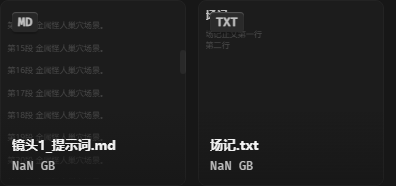
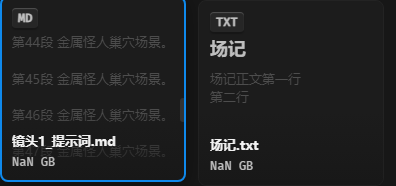
fix(卡片): 文本卡走查四修——角标让位 / 胶囊可拖 / 滚轮交还网格 / 字号固定
- 文本区让位角标（top = 角标下缘+4，无角标回 12）；胶囊补拖动（pointerdown 自停冒泡防起卡片拖拽）
- 滚轮不介入卡内（overflow hidden，恒滚网格；成因 = 网格自定义 transform 滚动 preventDefault）
- 字号固定稿值 18/13，推翻 cqw 等比缩放（fc-root container-type 同撤）；§16 口径已修订
- 探针扩断言全 PASS（含 CDP 真实鼠标拖胶囊、滚轮交还网格）

diff --git a/src/components/cards/FileCard.vue b/src/components/cards/FileCard.vue
@@ -11,9 +11,12 @@
 //        audio  = 波形（竖线 4px 圆头 gap 4 通用/五级，根数恒定由业务保证、美观优先）+ 悬停胶囊
 //        （时长 + 播放/暂停）；进度 = 品牌色波形层 clip-path 丝滑扫过（与根数解耦，稿 prose + 2026-08-29 用户定色）；
 //        font   = 示例字块居中（标题档 亮色/四级，日/韩环境示例字业务侧替换）+ 右上 FontInstallButton；
-//        text   = 标题（标题档 二级）+ 正文（正文档 四级）滚动预览，**内容随卡宽 cqw 等比缩放**
-//        （2026-09-13 实机走查：文档卡片跟随尺寸缩放，稿基准 300 宽比例换算），内容溢出出 6px
-//        滚动胶囊（通用/四级，胶囊自身 hover 升六级——2026-09-13 全局滚动条色档定案）；
+//        text   = 标题（标题档 二级）+ 正文（正文档 四级）滚动预览，**字号固定稿值不随卡宽缩放**
+//        （2026-09-22 用户实机定：卡片缩放只影响显示行数；推翻 2026-09-13 cqw 等比缩放——
+//        cqw 唯一消费者已拆，fc-root container-type 同撤），滚轮不介入卡内（卡内 overflow hidden，
+//        滚轮恒滚页面），内容溢出出 6px 滚动胶囊（通用/四级，胶囊自身 hover 升六级——2026-09-13
+//        全局滚动条色档定案）**可拖**（pointerdown 自停冒泡防起卡片拖拽，2026-09-22 用户实机报
+//        「滚动条 100% 被拖拽排序覆盖」修复）；
 // 悬停控件（胶囊 / 播放条 / 波形扫过）一律 hover 才出现（2026-08-29 用户定），过渡 150ms；
 // 壳 / hover 位移 -4 + 小阴影 / 选中 2px 品牌描边 见 cards.css（kc-media / kc-sel）。
 // 业务态（7.1 内容容器轮接线，模式同 cards/FolderCard）：naming = 行内重命名（名称位换输入框；
@@ -76,7 +79,9 @@ const spec = computed(() => cardContentSpecFor(props.kind) ?? generalContentSpec
 // 滚动胶囊（scrollThumb 形态 = text 卡）：内容溢出才显，轨道 = 内容区（卡 padding 12 内），跟随滚动；
 // 拇指在根层渲染（kc-clip 外——picked 压暗不波及）；滚动容器 = 内容件根元素（spec 契约：单根、
 // 根即滚动容器），经组件 ref.$el 接线（scroll 监听 + ResizeObserver）；
-// 卡片尺寸变化（尺寸滑块）同步重算（2026-09-13 实机走查：文档卡内容随卡宽等比缩放，滚动量随动）
+// 卡片尺寸变化（尺寸滑块）同步重算（字号固定后 = 可见行数变化滚动量随动，2026-09-22 修订）；
+// 拇指可拖（2026-09-22 用户实机报「滚动条 100% 被拖拽排序覆盖」）：pointerdown 自停冒泡
+//（不到网格根不起卡片拖拽 / 框选），位移按可滚比例映射 scrollTop（useSideThumb 同款换算）
 const contentRef = ref<ComponentPublicInstance>();
 const thumb = reactive({ show: false, top: 12, height: 0 });
 function contentScrollEl(): HTMLElement | undefined {
@@ -96,6 +101,25 @@ function updateThumb(): void {
   thumb.height = h;
   thumb.top = 12 + (scrollTop / (scrollHeight - clientHeight)) * (clientHeight - h);
   thumb.show = true;
+}
+/** 拇指拖拽滚动：位移 ×（可滚高 / 拇指行程）映射 scrollTop */
+function onThumbDown(e: PointerEvent): void {
+  const el = contentScrollEl();
+  if (!el) return;
+  e.stopPropagation(); // 防冒泡到网格根（起卡片拖拽 / 框选）
+  e.preventDefault();
+  const startY = e.clientY;
+  const startScroll = el.scrollTop;
+  const ratio = (el.scrollHeight - el.clientHeight) / Math.max(1, el.clientHeight - thumb.height);
+  const onMove = (ev: PointerEvent): void => {
+    el.scrollTop = startScroll + (ev.clientY - startY) * ratio;
+  };
+  const onUp = (): void => {
+    window.removeEventListener("pointermove", onMove);
+    window.removeEventListener("pointerup", onUp);
+  };
+  window.addEventListener("pointermove", onMove);
+  window.addEventListener("pointerup", onUp);
 }
 let textRo: ResizeObserver | undefined;
 onMounted(() => {
@@ -163,12 +187,14 @@ watch(
       v-bind="ov.props(props)"
     />
 
-    <!-- 滚动胶囊（scrollThumb 形态 = text 卡：贴右缘，hover 升五级） -->
+    <!-- 滚动胶囊（scrollThumb 形态 = text 卡：贴右缘，hover 升六级；可拖——pointerdown
+         自停冒泡防起卡片拖拽，2026-09-22 用户实机修复） -->
     <span
       v-if="spec.scrollThumb"
       v-show="thumb.show"
       class="fc-text-thumb"
       :style="{ top: `${thumb.top}px`, height: `${thumb.height}px` }"
+      @pointerdown="onThumbDown"
     />
 
     <!-- 原始文件-徽章（右下 12/12，品牌色原值） -->
@@ -180,7 +206,7 @@ watch(
 .fc-root {
   width: 100%;
   height: 100%;
-  container-type: inline-size; /* text 卡内容按卡宽 cqw 等比缩放（2026-09-13 实机走查） */
+  /* container-type 已撤（2026-09-22）：唯一消费者 = text 卡 cqw 等比缩放，字号改固定稿值后无用途 */
 }
 /* square 变体：shell 缩略图 / 自动导入未导入 = 正方形比例（稿注） */
 .fc-root.square {

diff --git a/src/components/cards/contents/TextContent.vue b/src/components/cards/contents/TextContent.vue
@@ -1,17 +1,23 @@
 <script setup lang="ts">
 // 内容件 · 文本滚动预览（text）——R5 扩展点注册表化（2026-09-21）自 FileCard 抽出，
-// 注册见 src/lib/cardSpecs/text.ts（scrollThumb: true）；样式块原样随迁、值未动。
+// 注册见 src/lib/cardSpecs/text.ts（scrollThumb: true）；2026-09-22 生产接线（txt/md/docx）。
 // 滚动胶囊本体在宿主 FileCard 根层（picked 压暗不波及，kc-clip 外），本件根元素即滚动容器——
 // 宿主经组件 ref.$el 挂 scroll 监听 / ResizeObserver（spec scrollThumb 契约：单根元素、根即滚动容器）。
+// 2026-09-22 用户实机走查三条修订：
+// ① 字号固定稿值不随卡宽缩放（废 2026-09-13 cqw 等比缩放——卡片缩放只影响显示行数）；
+// ② 滚轮不介入卡内（overflow hidden——卡不再是滚轮目标，滚轮恒滚页面；卡内滚动走右缘胶囊拖动，
+//    hidden 元素 scrollTop 仍可程序写）；
+// ③ 卡内文本让位格式角标（topInset：有角标时起始 = 角标下缘 + 4，spec 映射传入）。
 defineOptions({ inheritAttrs: false });
-withDefaults(defineProps<{ textTitle?: string; textBody?: string }>(), {
+withDefaults(defineProps<{ textTitle?: string; textBody?: string; topInset?: number }>(), {
   textTitle: "",
   textBody: "",
+  topInset: 12,
 });
 </script>
 
 <template>
-  <div class="fc-text">
+  <div class="fc-text" :style="{ top: `${topInset}px` }">
     <div v-if="textTitle" class="fc-text-title">{{ textTitle }}</div>
     <div class="fc-text-body">{{ textBody }}</div>
   </div>
@@ -19,30 +25,27 @@ withDefaults(defineProps<{ textTitle?: string; textBody?: string }>(), {
 
 <style scoped>
 /* 文本预览：卡 padding 12 内滚动（滚动内容可入渐变罩下），标题 二级 / 正文 四级 gap 8；
-   内容随卡宽等比缩放（2026-09-13 实机走查：文档卡片需要跟随尺寸缩放）——cqw 容器查询单位，
-   稿基准 300 宽：标题 18px=6cqw / 正文 13px≈4.34cqw / 内边距 12px=4cqw / gap 8px≈2.67cqw
-   （cqw 对宿主 .fc-root container-type: inline-size 生效，与组件边界无关） */
+   字号固定稿基准值（18/26、13/18）——卡片尺寸缩放只改变可见行数，文字大小不变 */
 .fc-text {
   position: absolute;
-  inset: 4cqw;
-  overflow-y: auto;
+  left: 12px;
+  right: 12px;
+  bottom: 12px;
+  /* top 由 style 绑定（topInset：格式角标让位，无角标 = 12） */
+  overflow-y: hidden; /* 滚轮目标让位页面；卡内滚动由宿主胶囊拖动驱动 scrollTop */
   display: flex;
   flex-direction: column;
-  gap: 2.67cqw;
-  scrollbar-width: none;
-}
-.fc-text::-webkit-scrollbar {
-  display: none;
+  gap: 8px;
 }
 .fc-text-title {
   flex: none;
-  font-size: 6cqw;
+  font-size: 18px;
   line-height: 1.45; /* 26/18 */
   font-weight: var(--n-fw-bold);
   color: var(--n-l2);
 }
 .fc-text-body {
-  font-size: 4.34cqw;
+  font-size: 13px;
   line-height: 1.39; /* 18/13 */
   color: var(--n-l4);
   white-space: pre-wrap;

diff --git a/src/lib/cardSpecs/text.ts b/src/lib/cardSpecs/text.ts
@@ -1,10 +1,11 @@
-// 文本卡 spec（稿 = 文件卡片-txt-md）：内容 = 标题 + 正文滚动预览（随卡宽 cqw 等比缩放）；
-// scrollThumb = 内容溢出滚动胶囊（拇指宿主渲染，接线 TextContent 根滚动容器）。
+// 文本卡 spec（稿 = 文件卡片-txt-md）：内容 = 标题 + 正文滚动预览（字号固定稿值，
+// 2026-09-22 用户定不随卡缩放）；scrollThumb = 内容溢出滚动胶囊（拇指宿主渲染可拖，
+// 接线 TextContent 根滚动容器）；topInset = 格式角标让位（角标下缘 + 4：12 + 20 + 4 = 36）。
 import TextContent from "../../components/cards/contents/TextContent.vue";
 import type { CardContentSpec } from "./types";
 
 export const textContentSpec: CardContentSpec = {
   content: TextContent,
-  contentProps: (p) => ({ textTitle: p.textTitle, textBody: p.textBody }),
+  contentProps: (p) => ({ textTitle: p.textTitle, textBody: p.textBody, topInset: p.badge ? 36 : 12 }),
   scrollThumb: true,
 };

diff --git a/tools/cdp-text-card-probe.py b/tools/cdp-text-card-probe.py
@@ -41,6 +41,11 @@ window.__TAURI_INTERNALS__ = {
         thumbPath: "E:/T/thumb.webp", thumbKind: "asset", origin: true,
         frameCount: null, animated: false, duration: null, bpm: null, importedFrom: null,
         noteCount: null, thumbFrame: null, fps: null },
+      // 凑行数让网格视口可滚（滚轮交还页面断言用）
+      ...Array.from({ length: 8 }, (_, i) => ({ assetId: `PX${i}`, folderId: "root", name: `垫图${i}.png`, w: 100, h: 80, ext: "png",
+        thumbPath: "E:/T/thumb.webp", thumbKind: "asset", origin: true,
+        frameCount: null, animated: false, duration: null, bpm: null, importedFrom: null,
+        noteCount: null, thumbFrame: null, fps: null })),
     ];
     const R = {
       get_current_library: LIB,
@@ -98,7 +103,7 @@ async def main():
     profile = tempfile.mkdtemp(prefix="cdp-text-card-")
     proc = subprocess.Popen(
         [EDGE, f"--remote-debugging-port={PORT}", f"--user-data-dir={profile}",
-         "--headless=new", "--disable-gpu", "--window-size=1400,900", "about:blank"],
+         "--headless=new", "--disable-gpu", "--window-size=1400,640", "about:blank"],
         stdout=subprocess.DEVNULL, stderr=subprocess.DEVNULL,
     )
     try:
@@ -159,6 +164,9 @@ async def main():
                   title: c.querySelector('.fc-text-title')?.textContent ?? null,
                   bodyHead: (c.querySelector('.fc-text-body')?.textContent ?? '').slice(0, 20),
                   overflowY: t ? getComputedStyle(t).overflowY : null,
+                  bodySize: t ? getComputedStyle(t.querySelector('.fc-text-body')).fontSize : null,
+                  topInset: t ? t.style.top : null,
+                  badgeText: c.querySelector('.fc-badge')?.textContent ?? null,
                 };
               });
               return {
@@ -182,8 +190,14 @@ async def main():
                     fails.append(f"[{label}] 词干标题缺失")
                 if not row["bodyHead"]:
                     fails.append(f"[{label}] 正文为空")
-                if row["overflowY"] != "auto":
-                    fails.append(f"[{label}] 滚动容器 overflowY={row['overflowY']}（期望 auto）")
+                if row["overflowY"] != "hidden":
+                    fails.append(f"[{label}] 滚动容器 overflowY={row['overflowY']}（期望 hidden——滚轮交还页面）")
+                if row["bodySize"] != "13px":
+                    fails.append(f"[{label}] 正文字号 {row['bodySize']}（期望 13px 固定稿值）")
+                # 角标让位：角标在 = 36px（角标下缘 + 4）；桩环境角标缺失时降级 12px 并诊断输出
+                expect_top = "36px" if row["badgeText"] else "12px"
+                if row["topInset"] != expect_top:
+                    fails.append(f"[{label}] 角标让位 top={row['topInset']}（期望 {expect_top}，badge={row['badgeText']}）")
             if md and "第59段" not in (md.get("bodyHead") or "") and not (await ev("([...document.querySelectorAll('.fc-text-body')].find((b) => b.textContent.includes('第59段'))?.textContent.length) ?? 0")):
                 fails.append("[md] 长文未到达（截断或懒加载失败）")
             if docx and docx["bodyHead"] != "分镜脚本\n主角入场。":
@@ -195,17 +209,93 @@ async def main():
             if (a["docxReads"] if a else []) != ["D1"]:
                 fails.append(f"read_docx_asset 调用不符（{a['docxReads']}）")
 
-            # 滚轮滚动验证：md 卡 .fc-text 内容溢出且 scrollTop 可推进（原生 overflow 吃滚轮）
+            # 卡内程序滚动（胶囊驱动路径）：scrollTop 可写 + 拇指位置跟随（Vue 异步 patch，等一拍再读）
             scroll = await ev("""(() => {
               const t = [...document.querySelectorAll('.fc-text')].find((x) => x.textContent.includes('第59段'));
               if (!t) return null;
-              const before = t.scrollTop;
-              t.scrollTop = 300;
-              return { overflow: t.scrollHeight > t.clientHeight, before, after: t.scrollTop };
+              const card = t.closest('.fc-root');
+              const thumbEl = card?.querySelector('.fc-text-thumb');
+              const thumbRect = thumbEl?.getBoundingClientRect();
+              return {
+                overflow: t.scrollHeight > t.clientHeight,
+                thumbVisible: thumbEl ? getComputedStyle(thumbEl).display !== 'none' : null,
+                thumbRect: thumbRect ? { x: thumbRect.x, y: thumbRect.y, w: thumbRect.width, h: thumbRect.height } : null,
+              };
             })()""")
-            print("[滚动]", json.dumps(scroll, ensure_ascii=False))
-            if not scroll or not scroll["overflow"] or scroll["after"] <= scroll["before"]:
-                fails.append(f"[md] 卡内滚动不成立（{scroll}）")
+            print("[胶囊状态]", json.dumps(scroll, ensure_ascii=False))
+            if not scroll or not scroll["overflow"]:
+                fails.append(f"[md] 内容未溢出（{scroll}）")
+            if scroll and scroll["thumbVisible"] is not True:
+                fails.append(f"[md] 溢出但胶囊未显（{scroll}）")
+            await ev("""(() => {
+              const t = [...document.querySelectorAll('.fc-text')].find((x) => x.textContent.includes('第59段'));
+              t.scrollTop = 300; t.dispatchEvent(new Event('scroll'));
+            })()""")
+            await asyncio.sleep(0.3)
+            follow = await ev("parseFloat([...document.querySelectorAll('.fc-text-thumb')].find((x) => x.getBoundingClientRect().height > 0)?.style.top ?? '0')")
+            if not follow or follow <= 12:
+                fails.append(f"[md] 拇指未跟随滚动（top={follow}）")
+
+            # ③ 胶囊可拖（先做——后续滚轮段会把网格滚走致卡出视口）：按下拇指下移 → scrollTop 推进
+            # 时序纪律：scrollTop 复位后等 Vue patch 再读 rect（patch 异步，立即读 = 过期坐标打歪）
+            await ev("""(() => { const t = [...document.querySelectorAll('.fc-text')].find((x) => x.textContent.includes('第59段')); t.scrollTop = 0; t.dispatchEvent(new Event('scroll')); })()""")
+            await asyncio.sleep(0.3)
+            tr = await ev("""(() => {
+              const t = [...document.querySelectorAll('.fc-text')].find((x) => x.textContent.includes('第59段'));
+              const thumbEl = t.closest('.fc-root').querySelector('.fc-text-thumb');
+              const r = thumbEl.getBoundingClientRect();
+              return { x: r.left + r.width / 2, y: r.top + r.height / 2, h: r.height };
+            })()""")
+            print("[胶囊坐标]", json.dumps(tr, ensure_ascii=False))
+            # 诊断：命中测试（坐标处最上层应为胶囊本体）
+            diag = await ev(f"document.elementFromPoint({tr['x']}, {tr['y']})?.className ?? null")
+            print("[命中]", json.dumps(diag, ensure_ascii=False))
+            if diag != "fc-text-thumb":
+                fails.append(f"[胶囊] 坐标命中 {diag} 而非胶囊（拖动必然落空）")
+            await send(ws, "Input.dispatchMouseEvent", {"type": "mousePressed", "x": tr["x"], "y": tr["y"], "button": "left", "clickCount": 1}, session=sess)
+            for dy in (30, 60, 90):
+                await send(ws, "Input.dispatchMouseEvent", {"type": "mouseMoved", "x": tr["x"], "y": tr["y"] + dy, "buttons": 1}, session=sess)
+                await asyncio.sleep(0.05)
+            await send(ws, "Input.dispatchMouseEvent", {"type": "mouseReleased", "x": tr["x"], "y": tr["y"] + 90, "button": "left", "clickCount": 1}, session=sess)
+            await asyncio.sleep(0.4)
+            drag = await ev("""(() => {
+              const t = [...document.querySelectorAll('.fc-text')].find((x) => x.textContent.includes('第59段'));
+              return { cardScroll: t.scrollTop };
+            })()""")
+            print("[胶囊拖动]", json.dumps(drag, ensure_ascii=False))
+            if drag["cardScroll"] <= 0:
+                fails.append(f"[胶囊] 拖动未驱动滚动（scrollTop={drag['cardScroll']}）")
+
+            # —— 走查修订断言（2026-09-22） ——
+            # ② 滚轮交还页面：网格 = 自定义 transform 滚动（useVirtualScroll，踩坑 005——
+            # viewport wheel preventDefault + pos 平移 canvas）。mouseWheel 落 md 卡文字上：
+            # fc-text 不滚（hidden 非滚轮目标 + viewport preventDefault 双保险）、canvas transform 变
+            pos = await ev("""(() => {
+              const t = [...document.querySelectorAll('.fc-text')].find((x) => x.textContent.includes('第59段'));
+              const r = t.getBoundingClientRect();
+              const canvas = document.querySelector('.grid-canvas');
+              return { x: r.left + r.width / 2, y: r.top + 60, cardScroll: t.scrollTop,
+                       canvasTf: canvas.style.transform };
+            })()""")
+            await send(ws, "Input.dispatchMouseEvent", {
+                "type": "mouseWheel", "x": pos["x"], "y": pos["y"], "deltaX": 0, "deltaY": 480,
+            }, session=sess)
+            await asyncio.sleep(0.6)
+            wheel = await ev("""(() => {
+              const t = [...document.querySelectorAll('.fc-text')].find((x) => x.textContent.includes('第59段'));
+              return { cardScroll: t.scrollTop,
+                       canvasTf: document.querySelector('.grid-canvas').style.transform };
+            })()""")
+            print("[滚轮交还页面]", json.dumps({**pos, **wheel}, ensure_ascii=False))
+            if wheel["cardScroll"] != pos["cardScroll"]:
+                fails.append(f"[滚轮] 卡内被滚轮驱动（{pos['cardScroll']} → {wheel['cardScroll']}）")
+            if wheel["canvasTf"] == pos["canvasTf"]:
+                fails.append(f"[滚轮] 网格未滚动（canvas transform 恒 {pos['canvasTf']}）")
+            # 滚回顶（截图视野复位）
+            await send(ws, "Input.dispatchMouseEvent", {
+                "type": "mouseWheel", "x": pos["x"], "y": pos["y"], "deltaX": 0, "deltaY": -2000,
+            }, session=sess)
+            await asyncio.sleep(0.5)
 
             # 截图（首张卡区域）
             rect = await ev("(() => { const r = document.querySelector('.asset-card')?.getBoundingClientRect(); return r ? { x: r.left, y: r.top, width: r.width * 2 + 24, height: r.height } : null; })()")

diff --git a/docs/02_开发日志/2026-09/Index.md b/docs/02_开发日志/2026-09/Index.md
@@ -2,7 +2,7 @@
 
 > 本月 143 个任务文件（命名 `YYYY-MM-DD[_NN]_标题.md`）。总目录见 [Index](../../Index.md）。
 
-- **2026-09-22**：[01_分组名称规则匹配词干修复（P4⊂mp4 案：P5A_01.mp4 误归 P4 且随组序漂移；ruleHits/ruleWeight 换 nameStem）](2026-09-22_01_分组名称规则匹配词干修复.md) · [02_免安装包重打（含分组词干修复；冒烟 17701 听 + 收尸干净）](2026-09-22_02_免安装包重打.md) · [03_docx 预览落地（R6 拓展性验证首例：注册表范式成立，showImg / 打开按钮两排除式热点改判定式；§52）](2026-09-22_03_docx预览_R6拓展性验证.md) · [04_导入剥只读位修复（微信接收 docx 入库只读案：store_file 落库剥只读位；存量 4 个解锁，踩坑 083）](2026-09-22_04_导入剥只读位修复.md) · [05_writeText 回写 hash（哈希漂移治理第 1 层：编辑保存同笔回写内容指纹；2/3 层记待办）](2026-09-22_05_writeText回写hash.md) · [06_文本卡接线（R6 三变体 text 项勾销：txt/md/docx 卡内滚动预览，cardText 懒加载 + modifiedAt 版本戳）](2026-09-22_06_文本卡接线.md)
+- **2026-09-22**：[01_分组名称规则匹配词干修复（P4⊂mp4 案：P5A_01.mp4 误归 P4 且随组序漂移；ruleHits/ruleWeight 换 nameStem）](2026-09-22_01_分组名称规则匹配词干修复.md) · [02_免安装包重打（含分组词干修复；冒烟 17701 听 + 收尸干净）](2026-09-22_02_免安装包重打.md) · [03_docx 预览落地（R6 拓展性验证首例：注册表范式成立，showImg / 打开按钮两排除式热点改判定式；§52）](2026-09-22_03_docx预览_R6拓展性验证.md) · [04_导入剥只读位修复（微信接收 docx 入库只读案：store_file 落库剥只读位；存量 4 个解锁，踩坑 083）](2026-09-22_04_导入剥只读位修复.md) · [05_writeText 回写 hash（哈希漂移治理第 1 层：编辑保存同笔回写内容指纹；2/3 层记待办）](2026-09-22_05_writeText回写hash.md) · [06_文本卡接线（R6 三变体 text 项勾销：txt/md/docx 卡内滚动预览，cardText 懒加载 + modifiedAt 版本戳）](2026-09-22_06_文本卡接线.md) · [07_文本卡走查四修（角标让位 / 胶囊可拖 / 滚轮交还网格 / 字号固定废 cqw；§16 修订）](2026-09-22_07_文本卡走查四修.md)
 
 - **2026-09-21**：[01_失败清单弹窗换代 ConfirmModal（导入失败旧样式根治；48 徽章废 / 次左主右 / 提示音归宿主，旧件余 2 全在 OrphanInfosAlert 待稿）](2026-09-21_01_失败清单弹窗换代ConfirmModal.md) · [02_孤儿警告弹窗换代 + AppModal/AppButton 烧删（ConfirmModal 单钮 + 代码块行 + open-in-explorer 入口；旧件与组件内 legacy token 双清零）](2026-09-21_02_孤儿警告弹窗换代与旧件清零.md) · [03_输入框一律左对齐（TextInput sm 居中特化废，全部消费方转正）](2026-09-21_03_输入框一律左对齐.md) · [04_新建分组与分组管理统一组卡片口径（g6 卡片 + GroupNameInput 抽件；§42 编辑器稿差勾销）](2026-09-21_04_新建分组与分组管理统一组卡片口径.md) · [05_分段控制器 g3 壳语境 = tone g2（批量重命名轨道隐身修复，g3 壳叠容器底色错档规则）](2026-09-21_05_分段控制器g3壳语境tone-g2.md) · [06_分组管理壳宽 640 随稿（底栏四钮 600>579 挤满贴边；按钮行实需核算口径，§42 稿宽勾销）](2026-09-21_06_分组管理壳宽640随稿.md) · [07_链接管理名称列贴行右缘（名称框 232 固定宽废改 flex 1，对勾贴右）](2026-09-21_07_链接管理名称列贴行右缘.md) · [08_弹窗展区 ③ 档清零（PathError / RecycleConfirm 换代；useGlobalKeys 让位列表修复——新弹窗快捷键穿透 bug）](2026-09-21_08_弹窗展区三档清零.md) · [09_彻底删除改警告色 + 复刻按钮行 gap 补写（当日两条修订；§51 同步修正）](2026-09-21_09_彻底删除警告色与复刻按钮行gap.md) · [10_免安装包重打（含当日样式八轮；冒烟 17701 听，收尸落实）](2026-09-21_10_免安装包重打.md)
 

diff --git a/docs/06_UI重构/规范/口径速查/16_阶段七卡片组件族口径（2026-08-29，稿 = Design Token-组件-卡片- 十稿）.md b/docs/06_UI重构/规范/口径速查/16_阶段七卡片组件族口径（2026-08-29，稿 = Design Token-组件-卡片- 十稿）.md
@@ -10,7 +10,7 @@
 - **列表行**：57 高 padding 6/12/6/6 gap 12，g2 底 + g3 1px 描边；hover = 底升 g3 + 描边升 g5（瞬时）；缩略图 80×45（g3 底 + g5 描边 + 圆角 6，图 **contain**——沿用旧 ListRowCard 口径，与网格卡 cover 不同）；名称列 flex 1（正文-加粗 一级 + 原始文件徽章 14），数据列各 123 宽 数字-大档 三级。
 - **列表表头**：g3 底 + 立体感-通用，高 34 padding 8/12 gap 12；列与行对齐（名称 flex 1，其余 123）；标签 正文-加粗 三级，hover 升二级 + **箭头 hover 现身 / 当前排序列恒显**；箭头 = chevron-small 单箭头旋转换向（朝上 = 升序原样、降序 rotate 180°，**300ms 形态切换**——稿注「上下箭头不同时出现」），常态 四级 / 自身 hover 三级。
 - **通用卡 square 变体**：shell 缩略图 / 自动导入未导入 = 正方形 + 缩略图 50% 居中（稿注）；网格卡缩略图 cover 充满（沿用旧 AssetCard 口径）。
-- **txt-md 卡**：卡内文本滚动预览（标题 标题档二级 / 正文 正文档四级 gap 8，滚动内容入渐变罩下）；**内容随卡宽 cqw 等比缩放**（2026-09-13 实机走查「文档卡片需要跟随尺寸缩放」——`.fc-root` container-type: inline-size，稿基准 300 宽：标题 18=6cqw / 正文 13≈4.34cqw / 内边距 12=4cqw / gap 8≈2.67cqw，行高保持稿比例 26/18、18/13）；内容溢出出 6px 滚动胶囊贴右缘（g4 / hover g6，2026-09-13 全局色档定案），跟随滚动（RO 同步重算——缩放后滚动量随动）。
+- **txt-md 卡**：卡内文本滚动预览（标题 标题档二级 / 正文 正文档四级 gap 8，滚动内容入渐变罩下）；**字号固定稿值、不随卡宽缩放**（2026-09-22 用户实机修订，推翻 2026-09-13 cqw 等比缩放——「文字大小应该是不变的，缩放卡片影响的是行数和列数」：标题 18/26 / 正文 13/18 / 内边距 12 / gap 8 固定；`.fc-root` container-type 已撤）；**内容让位格式角标**（起始 top = 角标下缘 + 4 = 12+20+4 = 36，无角标 12，spec topInset 映射）；**滚轮不介入卡内**（内容区 overflow hidden，滚轮恒滚网格——网格本是自定义 transform 滚动，viewport wheel preventDefault 已拦卡内原生滚动，hidden 为双保险；2026-09-22 用户定「靠滚动条就行」）；内容溢出出 6px 滚动胶囊贴右缘（g4 / hover g6，2026-09-13 全局色档定案），**胶囊可拖**（pointerdown 自停冒泡防起卡片拖拽/框选——同日用户实机报「拖动 100% 被拖拽排序覆盖」），跟随滚动（RO 同步重算）。生产接线（2026-09-22）：txt / md / docx 三格式共变体，AssetCard 喂词干标题 + 正文（`lib/cardText.ts` 懒加载）。
 - **尺寸模型**：卡片组件宽高 100% 随父容器（稿值 = figma 画布语境），预览页按稿值演示；网格行列尺寸归列表容器布局轮。
 - **业务接入登记**：素材网格 = AssetCard 壳接 FileCard（7.1 内容容器轮）；收件箱「工程文件」磁盘实况区 = InboxDiskSection 2026-09-08 换代 FileCard square 变体（旧 14 稿散装样式 C2 图标区 + C3 简介区 + 实色扩展名角标废除）——badge 恒 = 扩展名大写（目录不出）；目录条目 folder-closed 40 整卡居中保旧、被占用标记保旧视觉右上 4 壳层随 hover 位移（两处新稿未画，同 AssetCard 笔记角标「存量元素保旧」先例）。同区块标题同日换代 items/SectionTitle block（旧 SectionHeader「- N」计数废除），提示行 = 正文档 13/18 亮色/三级——**辅助说明文字通用档 = 空文件夹稿「提示文字」**（无专门稿的说明性文字一律此档，勿再造 caption/label 旧档）。
 - **动画时长**：hover / 颜色 150ms；位移 -4 + 小阴影 250ms；表头箭头旋转 300ms；悬停控件显隐 150ms。

diff --git a/docs/02_开发日志/2026-09/2026-09-22_07_文本卡走查四修.md b/docs/02_开发日志/2026-09/2026-09-22_07_文本卡走查四修.md
@@ -1,0 +1,14 @@
+# 2026-09-22_07 文本卡实机走查四修（角标让位 / 胶囊可拖 / 滚轮交还 / 字号固定）
+
+> 用户实机走查文本卡（2026-09-22_06 接线后）四条反馈，一轮修齐。速查 §16 txt-md 卡口径已修订。
+
+## 四条
+
+1. **角标遮挡卡内标题** → 文本内容区让位格式角标：起始 top = 角标下缘 + 4（36px，无角标回 12），spec 加 topInset 映射（FileCardProps.badge 非空判定——查看方式关角标时不让位）。
+2. **滚动胶囊拖动 100% 被拖拽排序覆盖** → 胶囊本是纯视觉 span（无处理器），补上拖动：`pointerdown` 自停冒泡（不到网格根 = 不起卡片拖拽/框选）+ 位移按比例映射 scrollTop（useSideThumb 同款换算）。
+3. **滚轮不滚文字 → 定案：滚轮不介入卡内**——查明成因：网格是自定义 transform 滚动（踩坑 005），viewport wheel 监听 preventDefault 把卡内原生滚动一并取消，所以本就滚不了。用户定「不要滚轮也好，可能影响页面整体滚动；把滚动条做好靠滚动条就行」——内容区改 `overflow: hidden`（卡不再是滚轮目标，滚轮恒滚网格；hidden 仍可由胶囊程序写 scrollTop），双保险。
+4. **文字太小** → 字号固定稿值（标题 18/26、正文 13/18、padding 12、gap 8），推翻 2026-09-13「cqw 随卡宽等比缩放」——卡片缩放只影响显示行数；cqw 唯一消费者拆除后 `.fc-root` 的 container-type 同撤。
+
+## 验证
+
+`pnpm typecheck` 绿；cdp-text-card-probe 扩断言 PASS（13px 固定字号 / topInset 36 角标让位 / overflow hidden / 滚轮后卡内 scrollTop 不变且网格 canvas transform 平移 / CDP 真实鼠标拖胶囊 scrollTop 0→1586）。中途两坑：dev server 旧进程占 5373 供旧变换（topInset 假失败，杀进程重起即真）；探针读胶囊 rect 撞上 Vue 异步 patch（滚动测试把卡滚出视口、读到过期坐标）——段序调整 + 读前等 patch。

diff --git a/docs/01_项目-PRD/04_文件预览/02_卡片布局.md b/docs/01_项目-PRD/04_文件预览/02_卡片布局.md
@@ -11,3 +11,4 @@
 
 
 - **文本卡（2026-09-22 接入，稿 = 文件卡片-txt-md；R6 卡片三变体 text 变体生产接线）：** txt / md / docx 卡片内容区 = 词干标题 + 正文滚动预览（卡内滚轮直接滚动全文，hover 出滚动胶囊）——不再走系统格式图标；docx 复用预览同款段落结构提取拼纯文本。数据 = 卡片懒加载（虚拟滚动渲染即视口内才读文件，会话级缓存按 modifiedAt 版本戳自动失效），正文截断 8000 字符防大文档 DOM 过载；ws 工作空间合成项不挂文本变体（assetId 假 id 禁发命令，维持格式图标）。docx 卡片用 read_docx_asset 全量解析的浪费记待办观察（必要时后端加读头部轻命令）。字体卡 / 音频卡变体接线仍待立项。
+	- 文本卡修订（2026-09-22 用户实机走查四条）：**字号固定稿值不随卡宽缩放**（卡片缩放只影响显示行数；推翻 2026-09-13 cqw 等比缩放口径）；**卡内文本让位格式角标**（起始 = 角标下缘 + 4px，无角标回 12）；**滚轮不介入卡内**（滚轮恒滚网格页面，卡内滚动走右缘胶囊拖动——「大部分情况只大概看看，细节点进预览看」）；**滚动胶囊可拖**（修复拖动被拖拽排序抢走）。
